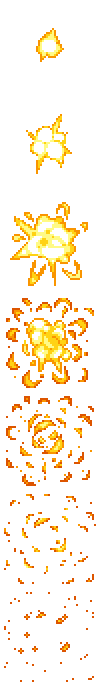
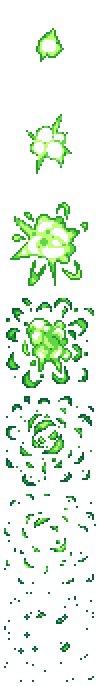
remove/update random bullshit

diff --git a/Content/Items/Weapons/Ranged/Wrathfire.cs b/Content/Items/Weapons/Ranged/Wrathfire.cs
@@ -318,8 +318,7 @@ namespace Divergency.Content.Items.Weapons.Ranged
             for (int i = 0; i < 20; i++)
             {
                 Vector2 velocity = Main.rand.NextVector2CircularEdge(1f, 1f) * Main.rand.NextFloat(10f, 20f);
-                float scale = Main.rand.NextFloat(1f, 2f);
-                ParticleManager.NewParticle<StarParticle>(Projectile.Center, velocity, new Color(128, 255, 0, 0), scale);
+                ParticleManager.NewParticle<CoreSparkle>(Projectile.Center, velocity, default, 4);
             }
         }
 
